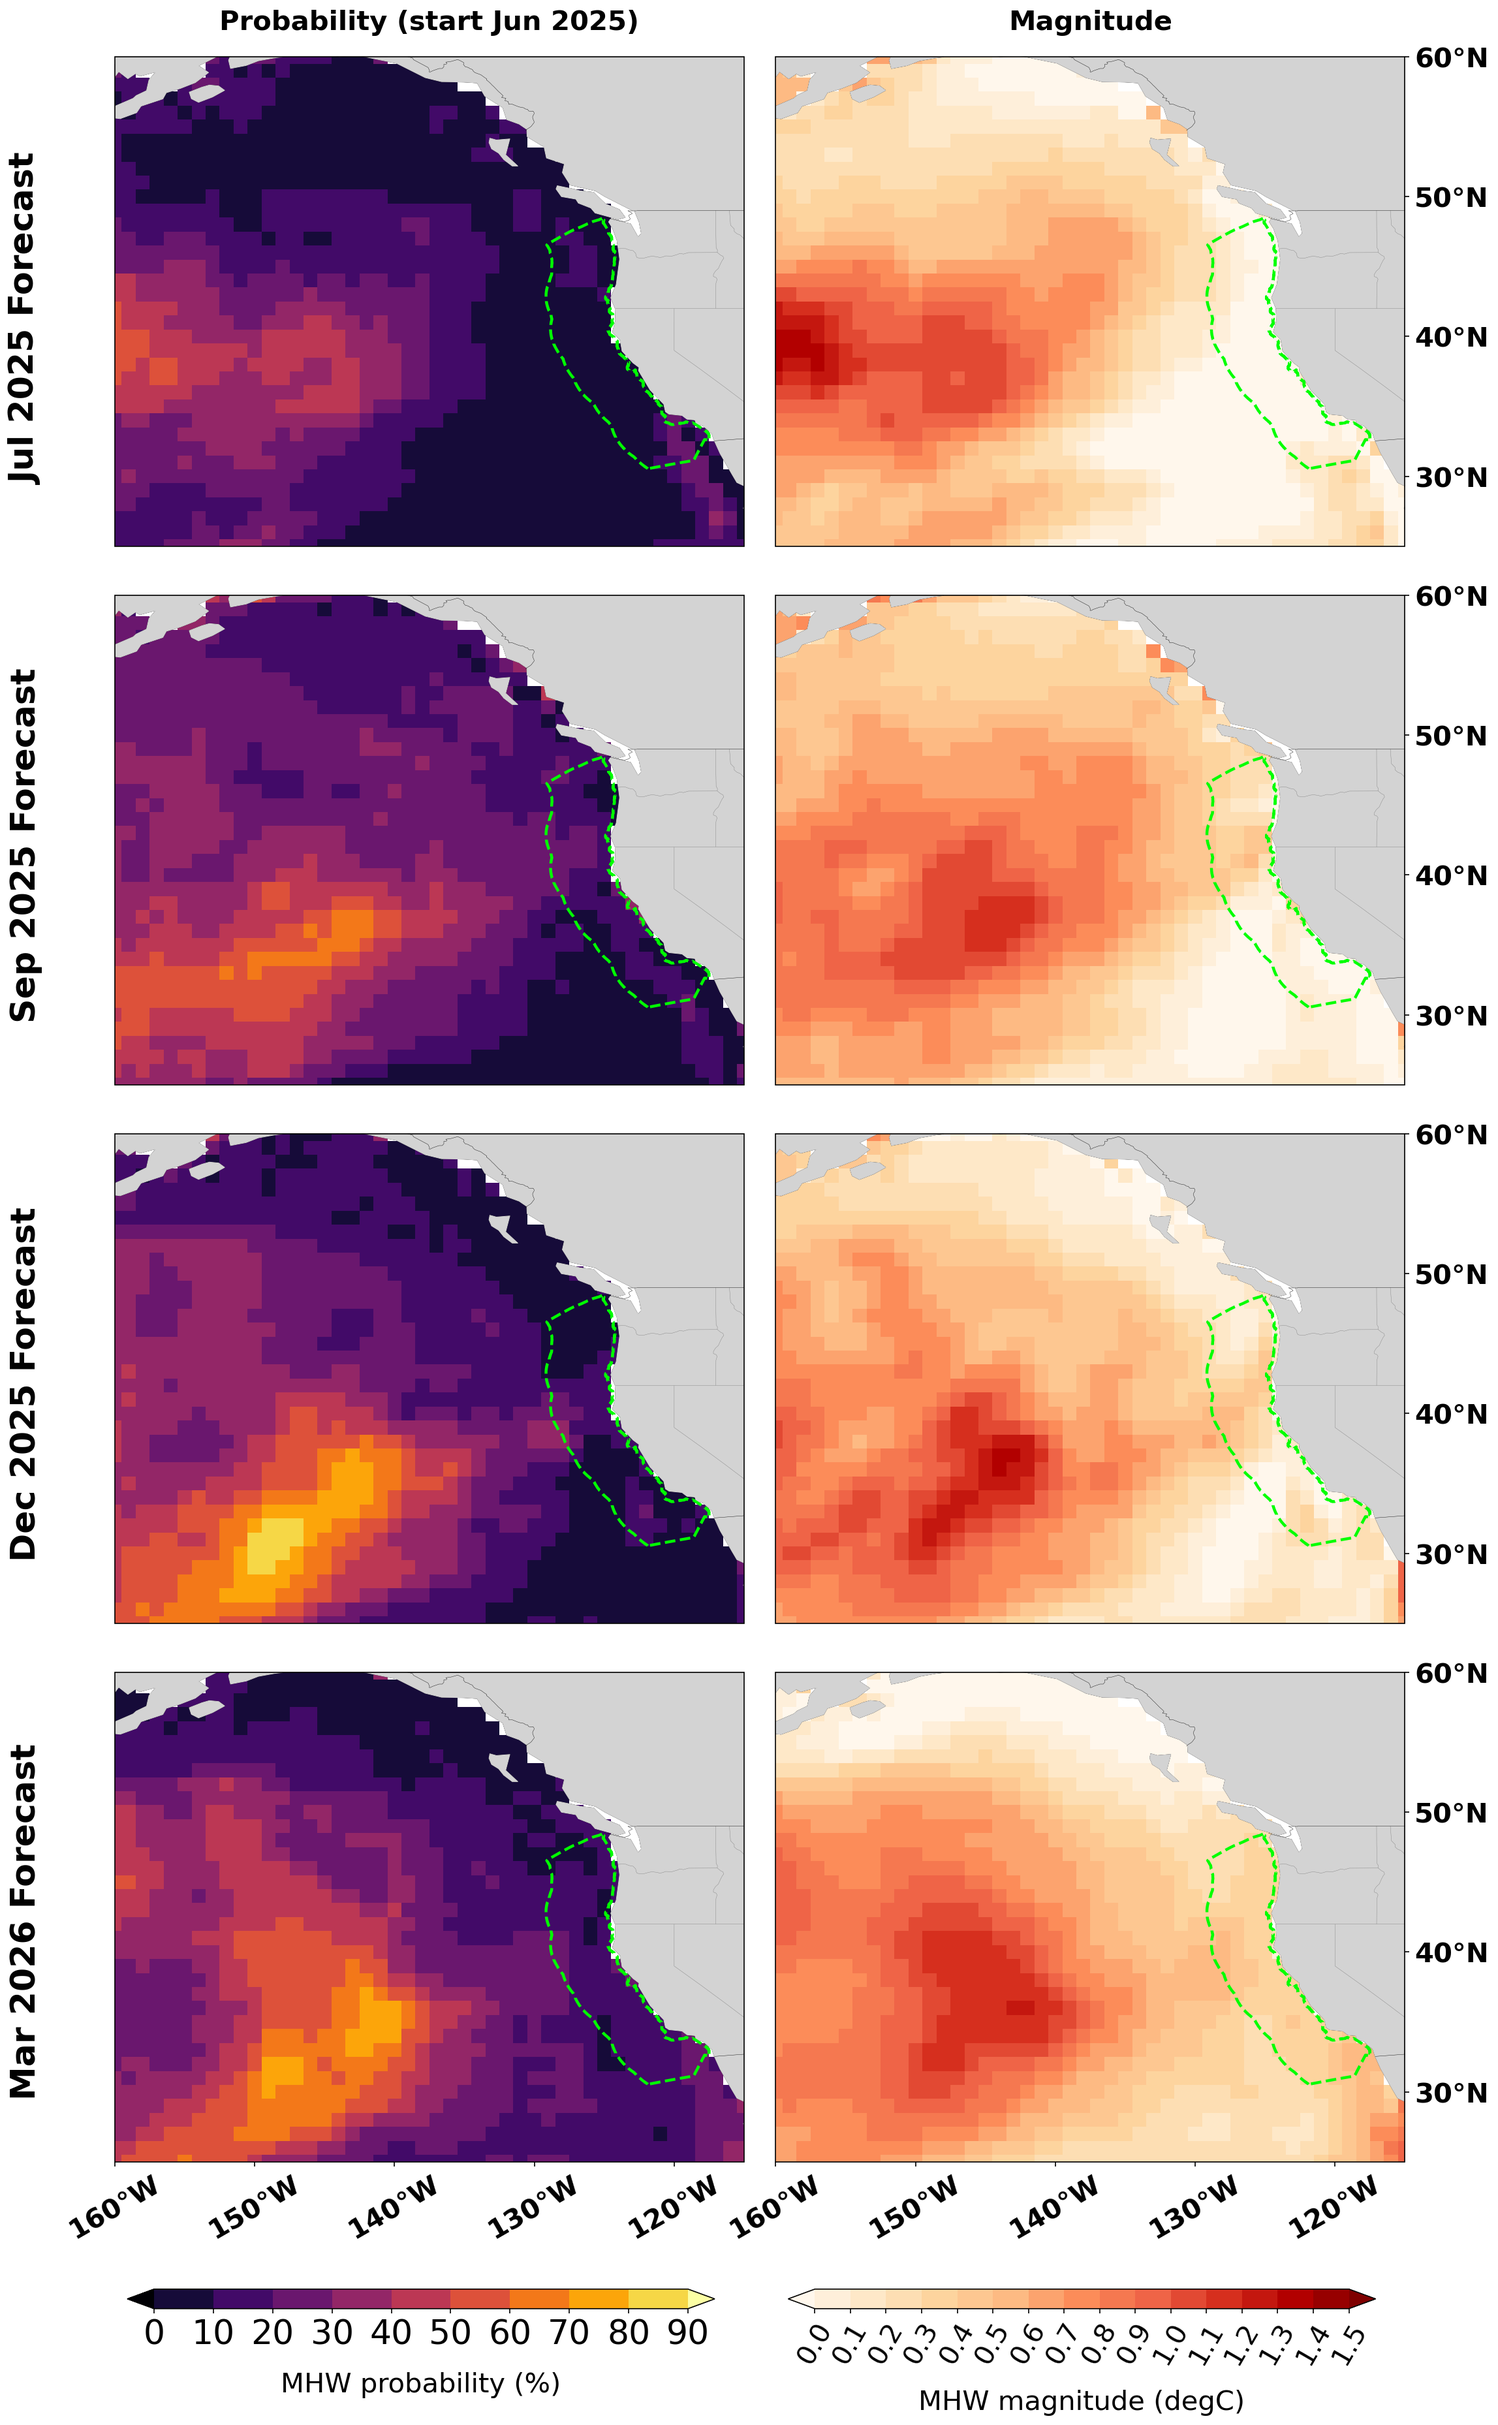
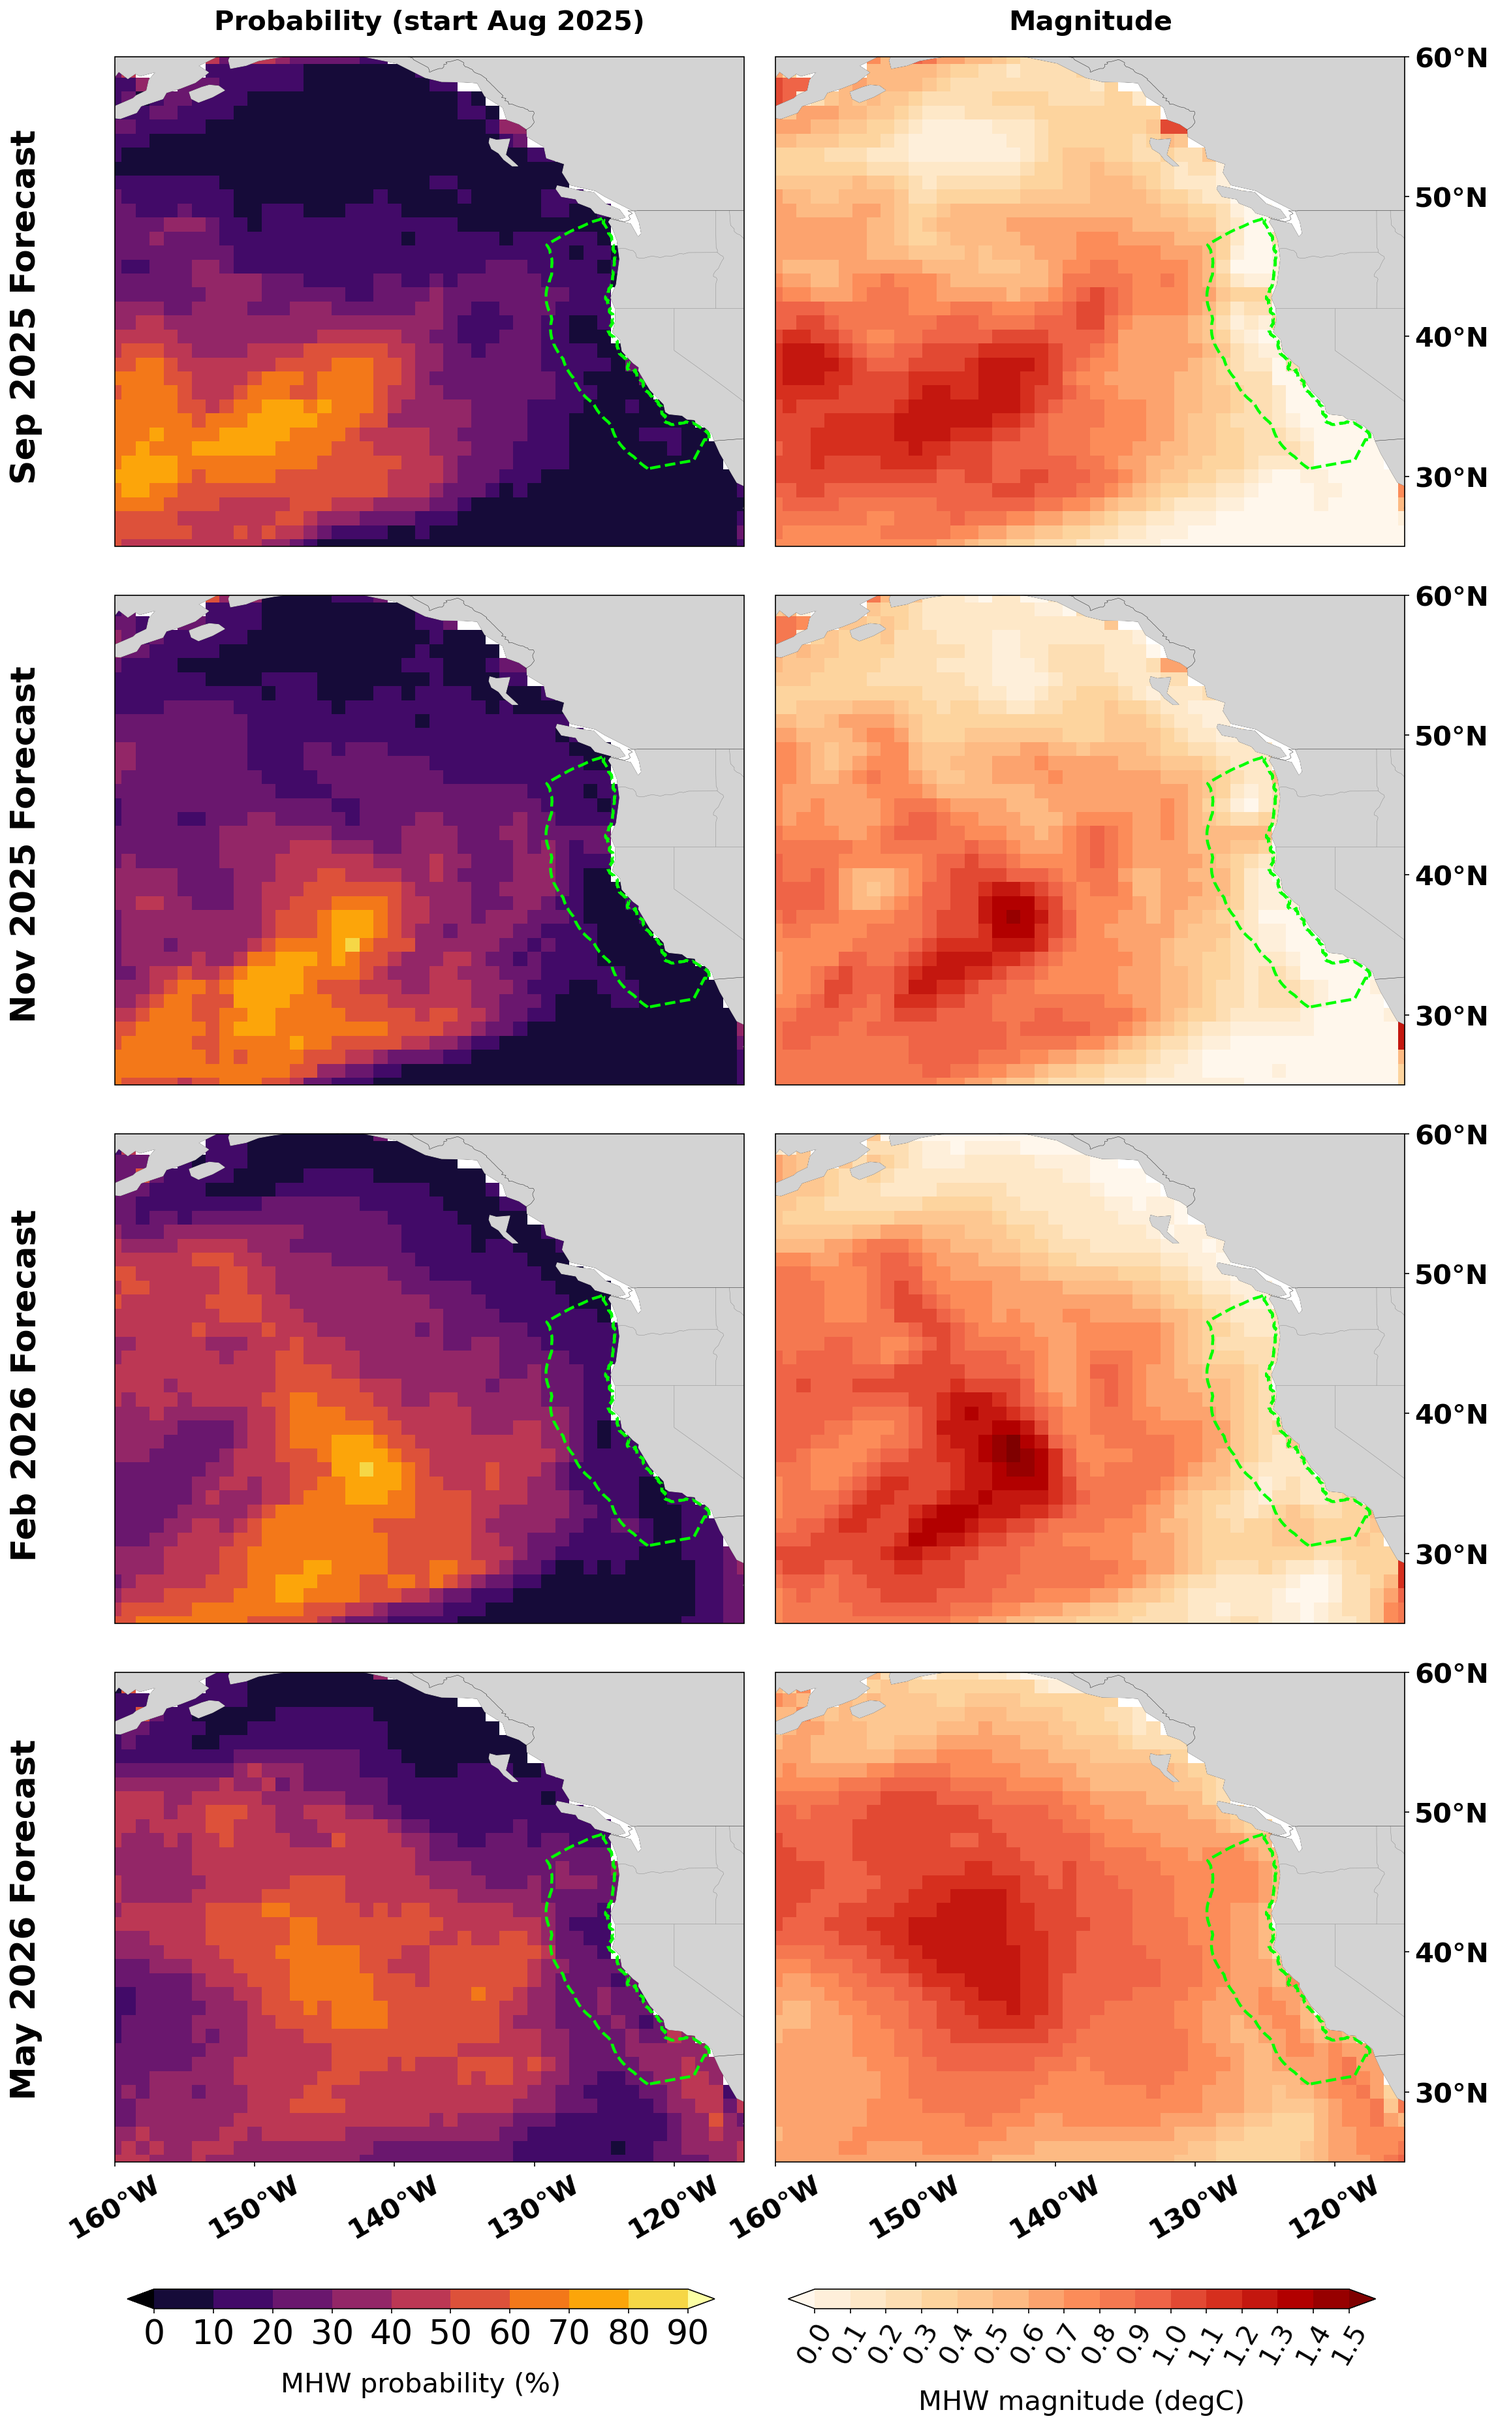
update for portal transfer

diff --git a/mhw_report_new.html b/mhw_report_new.html
@@ -34,8 +34,8 @@
       </a>
     </div>
     <div class="col-sm-6">
-      <h5 class="align-right">Forecast initial time <strong>June 2025</strong> </h5>
-      <h5 class="align-right">Forecast period <strong>June 2025 - May 2026</strong> </h5> 
+      <h5 class="align-right">Forecast initial time <strong>August 2025</strong> </h5>
+      <h5 class="align-right">Forecast period <strong>August 2025 - July 2026</strong> </h5> 
       <div class="align-right-container">
         <a href="https://list.woc.noaa.gov/listinfo/psl.mhw.forecast ">
           <button type="button" id="emailListBtn" class="btn btn-psl">Sign up mailing list for monthly marine heatwaves discussion</button>
@@ -57,33 +57,37 @@
 
 <h4><em><strong>Current marine heatwave conditions:</strong></em></h4>
 <p>
-  In May 2025, 23% [11%] of the global ocean experienced marine heatwaves (MHWs), which ranked 31th [124th] among all months since 1991.  
+  In July 2025, 25% [15%] of the global ocean experienced marine heatwaves (MHWs), which ranked 30th [62nd] among all months since 1991.  
 </p>
 <p>
-  MHW patterns are still characteristic of La Niña, with warm water in the far western tropical Pacific extending both northeastward and southeastward across the subtropical Pacific. MHWs are also found across much of the North Pacific east of Japan, in the Sea of Japan, in the central South Pacific, parts of the North Atlantic west of Europe and in the North Sea, the Caribbean Sea, Mediterranean Sea, parts of  Norwegian Seas, around Australia and in the Indian sector of the Southern Ocean.
+  Strong MHWs are present over much of the central and western North Pacific, the North Atlantic off the U.S. and European coasts, and Mediterranean Sea. Scattered areas of MHW conditions are also present over much of the Southern Hemisphere.
 </p>
 
 
 <h4><em><strong>Marine heatwave forecasts:</strong></em></h4>
 <p>
-  Forecasts predict that MHW coverage and overall intensity will increase slightly in the next couple of months, with approximately 26-30% [12-14%] of the global oceans experiencing MHW conditions over the 12-month forecast period. Below is a regionally refined focus:
+  Forecasts predict that global MHW coverage will remain steady at approximately 27% [13%] over the coming year. Note that for many regions, there are currently large decreases in forecasted MHWs likelihoods when removing trends, suggesting that much of the apparent anomalous warmth comes from long-term warming rather than shorter term variability. Below is a regionally refined focus:
 
   <ul>
     
       <li>
-        <strong>Tropical/North Pacific</strong> - MHW likelihoods are low in the eastern tropical Pacific and along the North and South American west coasts through at least August 2025 (0-20% [0-10%]; medium-high confidence). However, MHW likelihoods are high in the central/western North Pacific (60-80% [40-70%]; low-medium confidence) and in the central/western South Pacific (60-90% [0-30%]; low-medium confidence). 
+        <strong>Tropical/North Pacific</strong> - MHW likelihoods are low in the eastern tropical Pacific and along the North and South American west coasts through boreal fall (0-20% [0-20%]; medium-high confidence). In contrast, MHW likelihoods remain high in the central/western North Pacific (60-80% [30-60%]; low-medium confidence) and in the central/western South Pacific (40-60% [0-30%]; low-medium confidence). 
       </li>
     
       <li>
-        <strong>Tropical/North Atlantic</strong> - Elevated chances of MHWs are forecasted into September 2025 extending from the Gulf of Mexico/Caribbean Sea to the eastern North Atlantic as far north as Iceland (30-60% [0-40%]); low-medium confidence).
+        <strong>Tropical/North Atlantic</strong> - Elevated chances of MHWs are forecasted through boreal fall over much of the North Atlantic, extending from central America in the west to the North African and European coasts in the east (50-80% [0-60%]; low-medium confidence).
       </li>
     
       <li>
-        <strong>Indian Ocean</strong> - Chances of MHW conditions are low over much of the north western Indian Ocean. However, MHWs are more likely in the eastern Indian Ocean through at least September 2025 (50-70% [20-40%]; high confidence). In contrast, existing MHW conditions east of Madagascar are projected to relax through September (medium-high confidence) 
+        <strong>Mediterranean Sea</strong> - Forecasts indicate an increased likelihood of MHWs persisting in much of the Mediterranean Sea (30-60% [0-40%]; low confidence).
       </li>
     
       <li>
-        <strong>Southern Ocean</strong> - Elevated chances of MHWs are predicted through September of 2025 for the Southern Ocean, primarily in a region southeast of Africa (80-100% [70-100%] low confidence) and south of Australia (70-100% [30-50%] low-medium confidence).
+        <strong>Indian Ocean</strong> - Chances of MHW conditions are elevated in the eastern Indian Ocean and Indo-Pacific regions through at least November (50-80% [0-40%]; medium-high confidence). 
+      </li>
+    
+      <li>
+        <strong>Southern Ocean</strong> - High chances of MHWs through November are most pronounced southeast of Africa (80-100% [80-100%] low-medium confidence), There are other scattered regions throughout much of the Southern Ocean that also show elevated MHW probabilities, including south/southeast of Tasmania (80-100% [50-70%]; low confidence) and east of Argentina (60-80% [70-90%]; low confidence).
       </li>
     
   </ul>

diff --git a/mhw_report_jinia_templating.py b/mhw_report_jinia_templating.py
@@ -24,19 +24,15 @@ def parse_draft():
     store in xxx/marinehw/html_draft/*.html
     """
     # Read the HTML file
-    # draft_file = '/Public/chsu/share_mhw/DraftofGlobalMHWForecastDiscussion.html'
-    # draft_file = '/home/chsu/mhw_portal/mhw_report_draft.html'
-    data_dir = os.getenv('DATASETSPRIVATE')
-    draft_files = glob.glob(f'{data_dir}marinehw/html_draft/*.html')
+    draft_files = glob.glob('/Datasets.private/marinehw/html_draft/*.html')
     latest_draft_file = max(draft_files, key=os.path.getmtime)
 
     # Download new file with wget
     USE_DOWNLOAD_FROM_GITHUB = False
     if USE_DOWNLOAD_FROM_GITHUB:
         today_str = datetime.now().strftime("%Y%m%d")
-        temp_file = f'{data_dir}marinehw/html_draft/temp_draft_{today_str}.html'
+        temp_file = f'/Datasets.private/marinehw/html_draft/temp_draft_{today_str}.html'
         url = 'https://raw.githubusercontent.com/chiaweh2/chiaweh2.github.io/refs/heads/master/temp_share/DraftofGlobalMHWForecastDiscussion.html'  # Replace with your actual URL
-
 
 
         try:
@@ -103,8 +99,7 @@ def render_html(year=2000,month=6,current=True):
     draft from google doc.
 
     """
-    # output_file = '/home/chsu/MHW/mhw_report_new.html'
-    output_file = '/home/chsu/mhw_portal/mhw_report_new.html'
+    output_file = '/httpd-test/psd/marine-heatwaves/report.html'
 
     month_strings = calendar.month_name[1:]
 
@@ -127,11 +122,8 @@ def render_html(year=2000,month=6,current=True):
     replace_text = parse_draft()
 
     # open template file
-    # environment = Environment(
-    #     loader=FileSystemLoader("/home/chsu/MHW/mhw_report_template/")
-    # )
     environment = Environment(
-        loader=FileSystemLoader("/home/chsu/mhw_portal/mhw_report_template/")
+        loader=FileSystemLoader("/Datasets.private/marinehw/html_draft/")
     )
     template = environment.get_template("mhw_report_template.html")
     rendered_html = template.render(

diff --git a/nmme_areaperc_forecast_detrend_uswest.py b/nmme_areaperc_forecast_detrend_uswest.py
@@ -213,7 +213,7 @@ if __name__ == '__main__':
             cbar.ax.tick_params(labelsize=20,rotation=60)
             cbar.set_label(label='MHW magnitude (degC)',size=20, labelpad=15)
 
-    fig.savefig('/home/chsu/mhw_portal/figures/MHW_maps_detrend_eez.png', dpi=150, facecolor='w', edgecolor='w',
+    fig.savefig('/httpd-test/psd/marine-heatwaves/img/MHW_maps_detrend_eez.png', dpi=150, facecolor='w', edgecolor='w',
                     orientation='portrait', format=None,
                     transparent=False, bbox_inches="tight", pad_inches=None)
 
@@ -256,7 +256,7 @@ if __name__ == '__main__':
     ax1.grid(linestyle='dashed')
 
     fig.savefig(
-        '/home/chsu/mhw_portal/figures/MHW_area_bar_detrend_eez.png',
+        '/httpd-test/psd/marine-heatwaves/img/MHW_area_bar_detrend_eez.png',
         dpi=300, facecolor='w', edgecolor='w',
         orientation='portrait',
         transparent=False,

diff --git a/nmme_areaperc_forecast_uswest.py b/nmme_areaperc_forecast_uswest.py
@@ -323,7 +323,7 @@ if __name__ == '__main__':
             cbar.ax.tick_params(labelsize=20,rotation=60)
             cbar.set_label(label='MHW magnitude (degC)',size=20, labelpad=15)
 
-    fig.savefig('/home/chsu/mhw_portal/figures/MHW_maps_eez.png', dpi=150, facecolor='w', edgecolor='w',
+    fig.savefig('/httpd-test/psd/marine-heatwaves/img/MHW_maps_eez.png', dpi=150, facecolor='w', edgecolor='w',
                     orientation='portrait', format=None,
                     transparent=False, bbox_inches="tight", pad_inches=None)
 
@@ -366,7 +366,7 @@ if __name__ == '__main__':
     ax1.grid(linestyle='dashed')
 
     fig.savefig(
-        '/home/chsu/mhw_portal/figures/MHW_area_bar_eez.png',
+        '/httpd-test/psd/marine-heatwaves/img/MHW_area_bar_eez.png',
         dpi=300, facecolor='w', edgecolor='w',
         orientation='portrait',
         transparent=False,

diff --git a/nmme_areaperc_history_oisst_forecast_plume_uswest.py b/nmme_areaperc_history_oisst_forecast_plume_uswest.py
@@ -23,8 +23,8 @@ if __name__ == "__main__":
     client = Client(processes=False)
     region_limit = [-160,-115,25,60]
     PREMONTH = 24                          # historical record to include in plume plot (month)
-    OUTPUTDIR = '/home/chsu/mhw_portal/figures/'
-    # OUTPUTDIR = '/httpd-test/psd/marine-heatwaves/img/'
+    # OUTPUTDIR = '/home/chsu/mhw_portal/figures/'
+    OUTPUTDIR = '/httpd-test/psd/marine-heatwaves/img/'
 
     #### Calculating area percentage for observational data
     obs_mask_dict = hf.all_obs_area_mask()

diff --git a/nmme_total_no6MonAvg_monthly.py b/nmme_total_no6MonAvg_monthly.py
@@ -215,6 +215,6 @@ if __name__ == "__main__":
             executable="/usr/bin/bash"
         )
 
-        OUTPUT_PUBLIC_DIR = '/Public/chsu/share_mhw/'
-        filename = OUTPUT_PUBLIC_DIR + f'nmme_total_ssta_ens_{date}.nc'
-        ds_total_ens.to_netcdf(filename)
+        # OUTPUT_PUBLIC_DIR = '/Public/chsu/share_mhw/'
+        # filename = OUTPUT_PUBLIC_DIR + f'nmme_total_ssta_ens_{date}.nc'
+        # ds_total_ens.to_netcdf(filename)

diff --git a/nmme_total_monthly.py b/nmme_total_monthly.py
@@ -214,6 +214,6 @@ if __name__ == "__main__":
         executable="/usr/bin/bash"
     )
     
-    OUTPUT_PUBLIC_DIR = '/Public/chsu/share_mhw/'
-    filename = OUTPUT_PUBLIC_DIR + f'nmme_total_{date}.nc'
-    ds_total_prob.to_netcdf(filename,encoding=encoding)
+    # OUTPUT_PUBLIC_DIR = '/Public/chsu/share_mhw/'
+    # filename = OUTPUT_PUBLIC_DIR + f'nmme_total_{date}.nc'
+    # ds_total_prob.to_netcdf(filename,encoding=encoding)

diff --git a/nmme_hci_monthly.py b/nmme_hci_monthly.py
@@ -309,6 +309,6 @@ if __name__ == "__main__":
         executable="/usr/bin/bash"
     )
 
-    OUTPUT_PUBLIC_DIR = '/Public/chsu/share_mhw/'
-    filename = OUTPUT_PUBLIC_DIR + f'nmme_hci_{date}.nc'
-    ds_hci_ratio.to_netcdf(filename,encoding=encoding)
+    # OUTPUT_PUBLIC_DIR = '/Public/chsu/share_mhw/'
+    # filename = OUTPUT_PUBLIC_DIR + f'nmme_hci_{date}.nc'
+    # ds_hci_ratio.to_netcdf(filename,encoding=encoding)

diff --git a/nmme_areaperc_history_oisst_forecast_plume.py b/nmme_areaperc_history_oisst_forecast_plume.py
@@ -1058,7 +1058,7 @@ if __name__ == "__main__":
     # OUTPUTDIR = '/home/chsu/mhw_portal/figures/'
     # OUTPUT_DATA_DIR = '/home/chsu/mhw_portal/data/'
     OUTPUTDIR = '/httpd-test/psd/marine-heatwaves/img/'
-    OUTPUT_DATA_DIR = '/Public/chsu/share_mhw/'
+    OUTPUT_DATA_DIR = '/Datasets/marinehw/'
 
 
     #### Calculating area percentage for observational data
